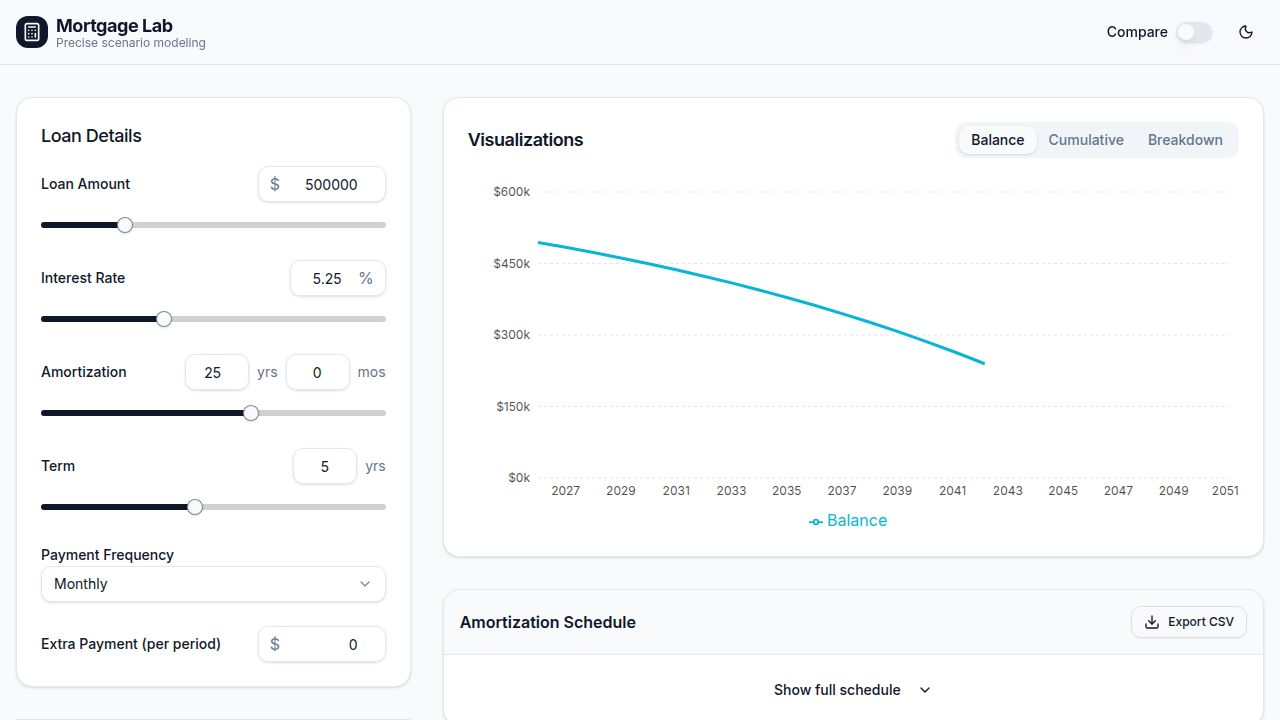
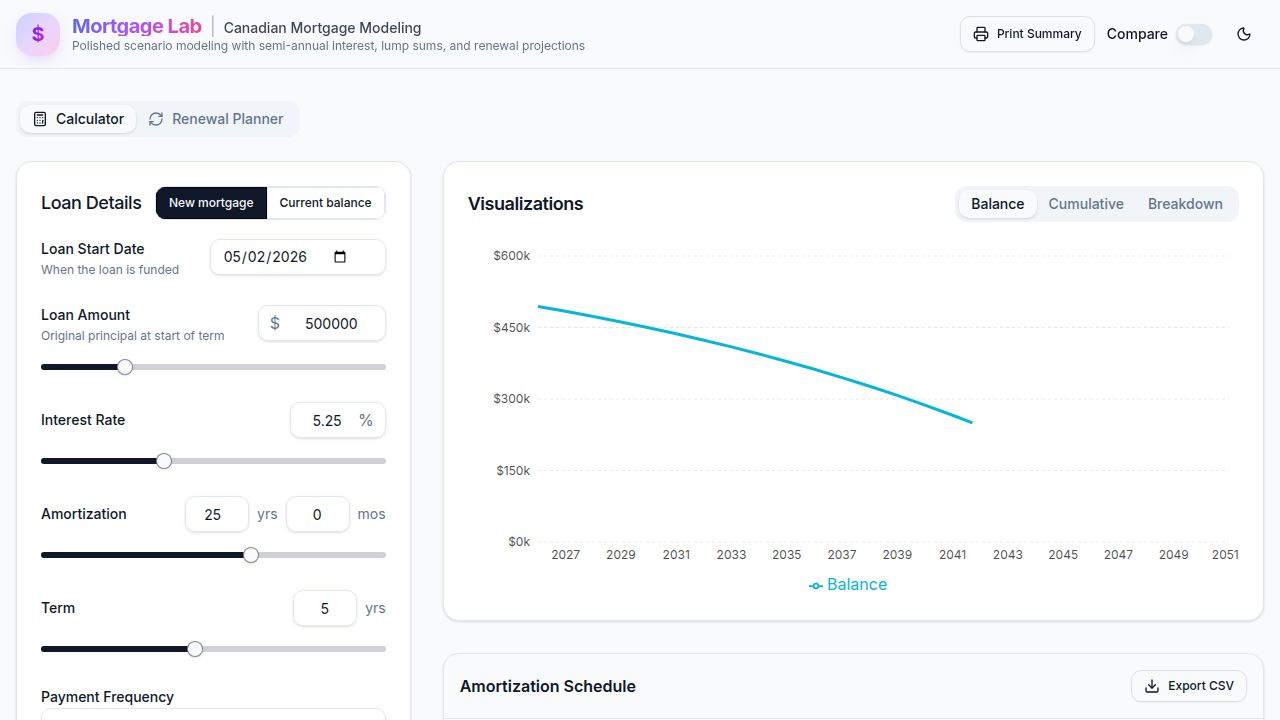
Add ability to rename mortgage calculation scenarios
Allow users to edit scenario titles in the mortgage calculator for better organization and comparison.

Replit-Commit-Author: Agent
Replit-Commit-Session-Id: ed01c348-63dc-41d1-88c5-1f0cf4f11e7a
Replit-Commit-Checkpoint-Type: full_checkpoint
Replit-Commit-Event-Id: 77fe4181-4446-4b83-a7ce-250e895c9d86
Replit-Commit-Screenshot-Url: https://storage.googleapis.com/screenshot-production-us-central1/832df1b5-eb85-404c-b98d-892fc0c51b6e/ed01c348-63dc-41d1-88c5-1f0cf4f11e7a/RmeteTB
Replit-Helium-Checkpoint-Created: true

diff --git a/artifacts/mortgage-calculator/src/pages/Calculator.tsx b/artifacts/mortgage-calculator/src/pages/Calculator.tsx
@@ -1,6 +1,7 @@
 import React, { useState, useMemo } from "react";
-import { Moon, Sun, Printer, Calculator as CalculatorIcon, RefreshCw } from "lucide-react";
+import { Moon, Sun, Printer, Calculator as CalculatorIcon, RefreshCw, Pencil } from "lucide-react";
 import { Button } from "@/components/ui/button";
+import { Input } from "@/components/ui/input";
 import { Switch } from "@/components/ui/switch";
 import { Tabs, TabsContent, TabsList, TabsTrigger } from "@/components/ui/tabs";
 import { useTheme } from "@/components/theme-provider";
@@ -21,6 +22,7 @@ import {
 export type BalanceMode = "new" | "current";
 
 export type ScenarioState = {
+  title: string;
   mode: BalanceMode;
   termStartDate: string;
   principal: number;
@@ -42,7 +44,37 @@ const todayIso = () => {
   return `${y}-${m}-${day}`;
 };
 
+function ScenarioTitleInput({
+  value,
+  onChange,
+  placeholder,
+  accentClass,
+}: {
+  value: string;
+  onChange: (v: string) => void;
+  placeholder: string;
+  accentClass: string;
+}) {
+  return (
+    <div className="flex items-center gap-2 group">
+      <span className={`w-1.5 h-7 rounded-full ${accentClass} shrink-0`} aria-hidden="true" />
+      <div className="relative flex-1 min-w-0">
+        <Input
+          value={value}
+          onChange={(e) => onChange(e.target.value)}
+          placeholder={placeholder}
+          className="text-xl font-semibold border-transparent bg-transparent hover:bg-muted/50 focus-visible:bg-card focus-visible:border-input px-2 -mx-2 h-9 transition-colors pr-8"
+          aria-label="Scenario title"
+          maxLength={40}
+        />
+        <Pencil className="absolute right-2 top-1/2 -translate-y-1/2 h-3.5 w-3.5 text-muted-foreground/40 group-hover:text-muted-foreground transition-colors pointer-events-none" />
+      </div>
+    </div>
+  );
+}
+
 const defaultScenario: ScenarioState = {
+  title: "Scenario A",
   mode: "new",
   termStartDate: todayIso(),
   principal: 500000,
@@ -59,10 +91,11 @@ const defaultScenario: ScenarioState = {
 export default function Calculator() {
   const { theme, setTheme } = useTheme();
   const [tab, setTab] = useState<"calculator" | "renewal">("calculator");
-  const [isCompare, setIsCompare] = useState(false);
+  const [isCompare, setIsCompare] = useState(true);
   const [scenarioA, setScenarioA] = useState<ScenarioState>({ ...defaultScenario });
   const [scenarioB, setScenarioB] = useState<ScenarioState>({ 
     ...defaultScenario, 
+    title: "Scenario B",
     annualRatePct: 4.75,
     frequency: "Accelerated bi-weekly"
   });
@@ -218,7 +251,14 @@ export default function Calculator() {
             <div className={`grid grid-cols-1 ${isCompare ? 'lg:grid-cols-2' : 'lg:grid-cols-12'} gap-6 sm:gap-8 items-start`}>
               {/* Inputs Section */}
               <div className={`${isCompare ? '' : 'lg:col-span-4'} space-y-6`}>
-                {isCompare && <h2 className="text-xl font-semibold flex items-center gap-2">Scenario A</h2>}
+                {isCompare && (
+                  <ScenarioTitleInput
+                    value={scenarioA.title}
+                    onChange={(t) => setScenarioA({ ...scenarioA, title: t })}
+                    placeholder="Scenario A"
+                    accentClass="bg-[hsl(var(--chart-1))]"
+                  />
+                )}
                 <ScenarioForm state={scenarioA} onChange={setScenarioA} />
                 {!isCompare && (
                   <div className="mt-8 pt-8 border-t">
@@ -229,7 +269,12 @@ export default function Calculator() {
 
               {isCompare ? (
                 <div className="space-y-6">
-                  <h2 className="text-xl font-semibold flex items-center gap-2">Scenario B</h2>
+                  <ScenarioTitleInput
+                    value={scenarioB.title}
+                    onChange={(t) => setScenarioB({ ...scenarioB, title: t })}
+                    placeholder="Scenario B"
+                    accentClass="bg-[hsl(var(--chart-3))]"
+                  />
                   <ScenarioForm state={scenarioB} onChange={setScenarioB} />
                 </div>
               ) : (

diff --git a/artifacts/mortgage-calculator/src/components/print-summary.tsx b/artifacts/mortgage-calculator/src/components/print-summary.tsx
@@ -289,10 +289,22 @@ export function PrintSummary({
 
       {isCompare && scenarioB && summaryB && scheduleB ? (
         <div className="ps-compare">
-          <ScenarioBlock label="Scenario A" scenario={scenarioA} summary={summaryA} schedule={scheduleA} />
-          <ScenarioBlock label="Scenario B" scenario={scenarioB} summary={summaryB} schedule={scheduleB} />
+          <ScenarioBlock
+            label={scenarioA.title?.trim() || "Scenario A"}
+            scenario={scenarioA}
+            summary={summaryA}
+            schedule={scheduleA}
+          />
+          <ScenarioBlock
+            label={scenarioB.title?.trim() || "Scenario B"}
+            scenario={scenarioB}
+            summary={summaryB}
+            schedule={scheduleB}
+          />
           <div className="ps-diff">
-            <h3 className="ps-h3">At a Glance · Difference (B − A)</h3>
+            <h3 className="ps-h3">
+              At a Glance · Difference ({(scenarioB.title?.trim() || "Scenario B")} − {(scenarioA.title?.trim() || "Scenario A")})
+            </h3>
             <table className="ps-table">
               <tbody>
                 <tr>

diff --git a/artifacts/mortgage-calculator/src/components/scenario-comparison.tsx b/artifacts/mortgage-calculator/src/components/scenario-comparison.tsx
@@ -27,11 +27,18 @@ export function ScenarioComparison({ scenarioA, summaryA, scenarioB, summaryB }:
     );
   };
 
+  const titleA = scenarioA.title?.trim() || "Scenario A";
+  const titleB = scenarioB.title?.trim() || "Scenario B";
+
   return (
     <Card className="border-border shadow-md bg-card/50 overflow-hidden">
       <div className="bg-muted p-4 border-b">
-        <h3 className="font-semibold text-lg">Scenario B vs A</h3>
-        <p className="text-sm text-muted-foreground">See how Scenario B performs compared to Scenario A</p>
+        <h3 className="font-semibold text-lg">
+          <span className="text-foreground">{titleB}</span>
+          <span className="text-muted-foreground font-normal mx-2">vs</span>
+          <span className="text-foreground">{titleA}</span>
+        </h3>
+        <p className="text-sm text-muted-foreground">See how {titleB} performs compared to {titleA}</p>
       </div>
       <CardContent className="p-0">
         <div className="grid grid-cols-1 md:grid-cols-3 divide-y md:divide-y-0 md:divide-x">

diff --git a/artifacts/mortgage-calculator/src/components/amortization-chart.tsx b/artifacts/mortgage-calculator/src/components/amortization-chart.tsx
@@ -124,7 +124,7 @@ export function AmortizationChart({ scheduleA, scenarioA, scheduleB, scenarioB, 
                 <Line 
                   type="monotone" 
                   dataKey="balanceA" 
-                  name={isCompare ? "Scenario A Balance" : "Balance"} 
+                  name={isCompare ? `${scenarioA.title?.trim() || "Scenario A"} Balance` : "Balance"} 
                   stroke={colors.primary} 
                   strokeWidth={3} 
                   dot={false}
@@ -134,7 +134,7 @@ export function AmortizationChart({ scheduleA, scenarioA, scheduleB, scenarioB, 
                   <Line 
                     type="monotone" 
                     dataKey="balanceB" 
-                    name="Scenario B Balance" 
+                    name={`${scenarioB?.title?.trim() || "Scenario B"} Balance`} 
                     stroke={colors.secondary} 
                     strokeWidth={3} 
                     dot={false}
